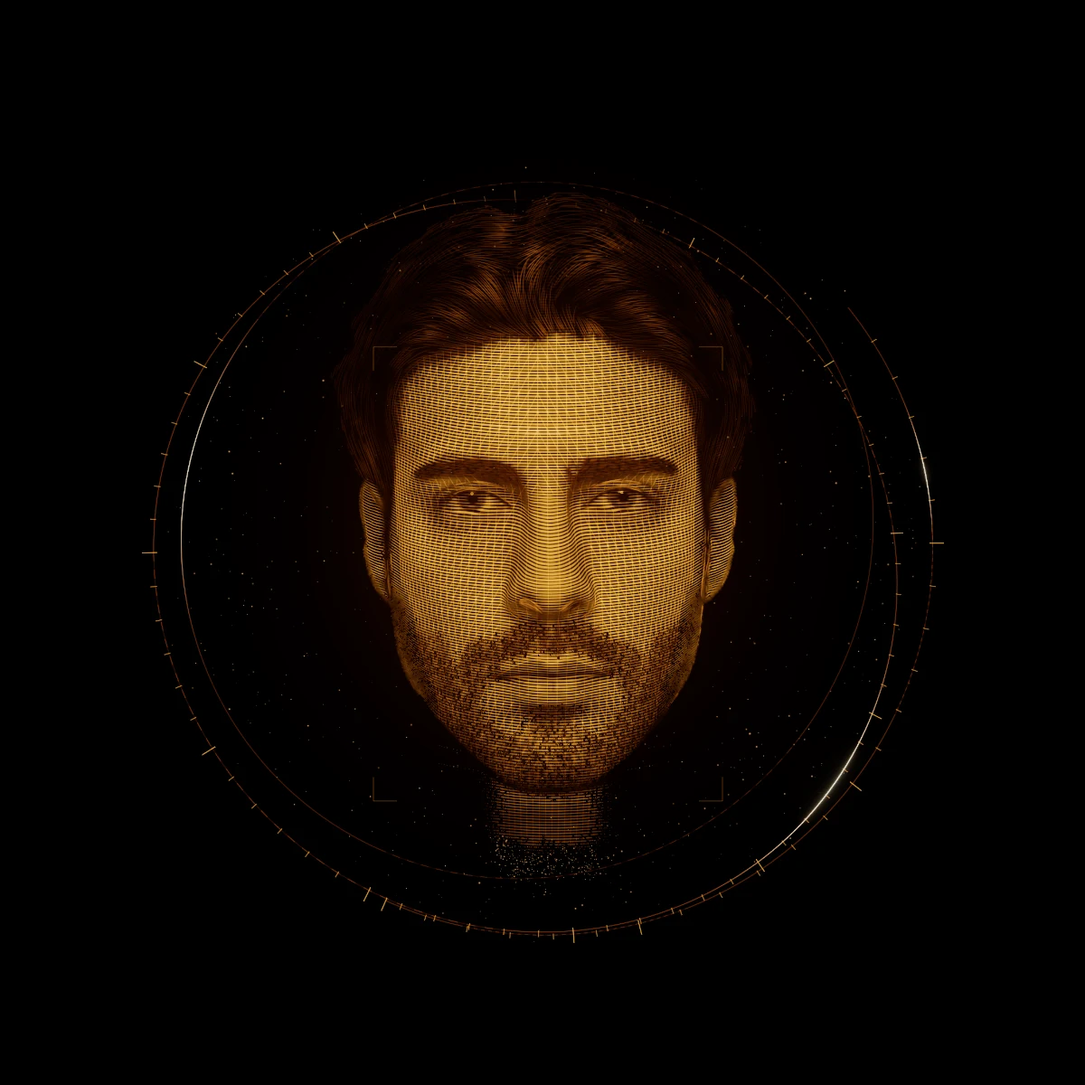
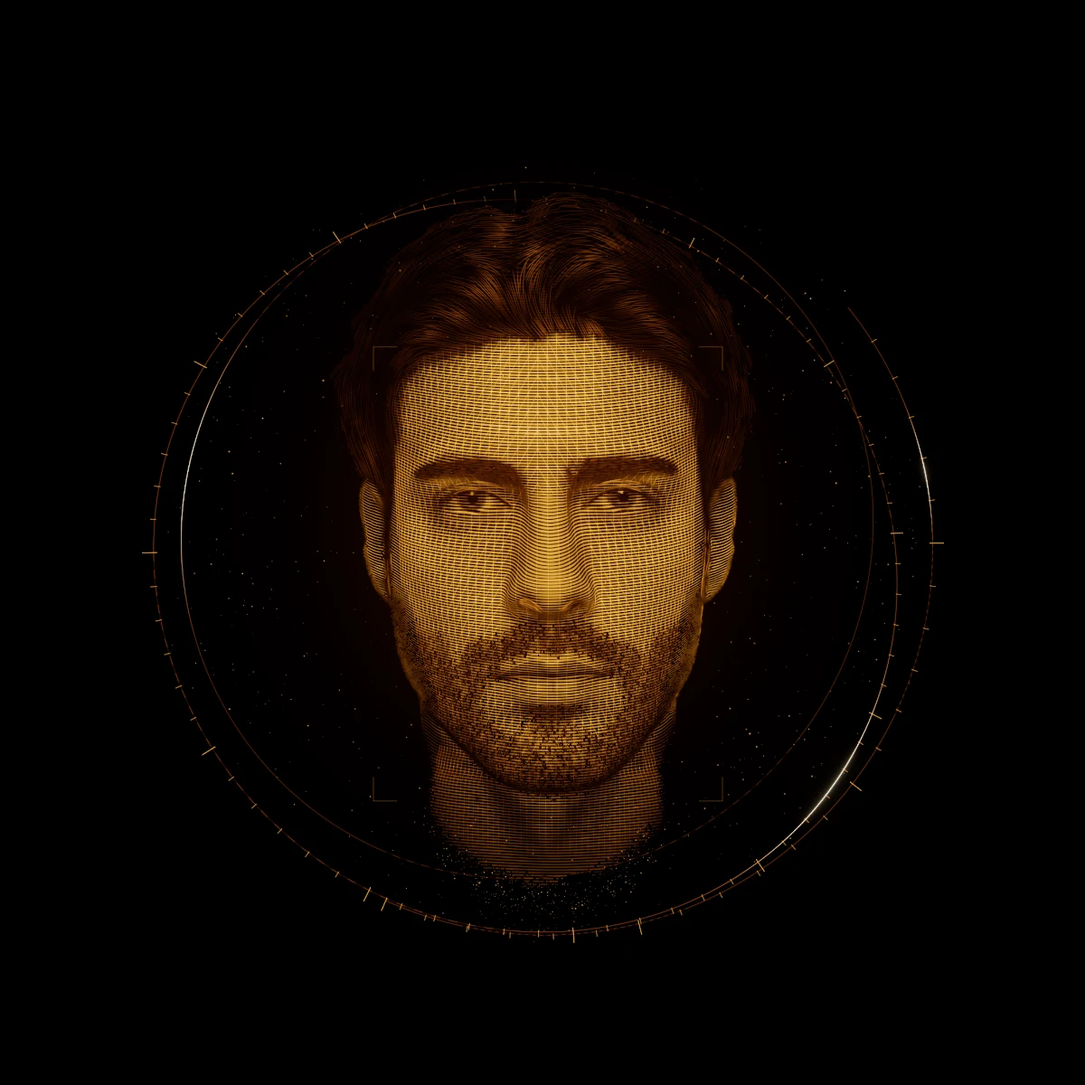
Hologram neck: photo-proportional width, rounded, collar-U fade
The owner found the neck too thin ("like a string"): the visible neck was
about 0.31 of the face width, while the photo's is about 0.70-0.76. The
neck outline is now read from the photo's own skin mask under the jaw.
Below the chin the sides are carried straight down with a slight widening
toward the base, so the neck is about 0.71 of the face width under the
chin. It is shaded as a cylinder with depth normals, and the photo's local
contrast brings out the neck muscles and throat. It dissolves along a
rounded U at the collar line.

?holo.neck=0 switches the neck off (the jaw ends in a fine ember fringe).
The old neck is kept as a fixed random-stream reference, so stubble and
glints do not move. The face above the jaw is unchanged. Posters were
regenerated.

Claude-Session: https://claude.ai/code/session_01YPth3hHsysZd6N1StRjhvQ

Changed region(s): [[0.4008, 0.6475, 0.6475, 0.8325], [0.37, 0.6475, 0.4008, 0.6783]]

diff --git a/src/components/hologram/builder.ts b/src/components/hologram/builder.ts
@@ -323,60 +323,208 @@ export function buildFaceGeometry(input: BuildInput): BuildOutput {
   const seamY = (x: number) => 0.5 * (polyY(SEAM_UP, x) + polyY(SEAM_LO, x));
   const mouthL = LMk[61][0], mouthR = LMk[291][0];
   const JAW = [172, 136, 150, 149, 176, 148, 152, 377, 400, 378, 379, 365, 397];
-  // The neck: a short, slim column under the jaw that dissolves before any shoulders. Its shape is a small set of
-  // knobs: hw (half width at mid-neck), soft (width of the side ramp of the dissolve), flare/flareL (extra half width
-  // right under the jaw line, easing out over flareL px: the column curves out into the jaw instead of meeting it at a
-  // right angle), u (how much earlier the sides end than the centre: a U-shaped bottom instead of a flat cut), spread
-  // (extra half width gained on the way down to the dissolve: a real neck widens a little toward the shoulders, so the
-  // column must not narrow into a funnel / goatee point as it fades).
-  type NeckShape = { cx: number; hw: number; y0: number; side: number; sig: number; hold: number; soft: number; flare: number; flareL: number; u: number; spread: number };
-  const mkNeck = (s: NeckShape) => {
-    const start = (x: number) => Math.min(s.y0, polyY(JAW, x) + s.side);
-    const hwAt = (x: number, y: number) => {
-      let hw = s.hw;
-      if (s.flare > 0) hw += s.flare * (1 - smooth(0, s.flareL, y - polyY(JAW, x)));
-      if (s.spread > 0) hw += s.spread * smooth(0, s.hold + s.sig, y - start(x));
-      return hw;
+  // A neck as a set of fields: w (side weight), v (dissolve toward the bottom, 1 above the line y1), k = w * v (the
+  // dissolve key the filaments carry; 1 above the jaw line, so nothing above the jaw depends on the neck)
+  type NeckFns = { cx: number; y1: (x: number) => number; w: (x: number, y: number) => number; v: (y: number, x: number) => number; k: (x: number, y: number) => number };
+  // The neck as first shipped (a slab, a fixed column under the jaw). It is drawn nowhere: it only fixes how many
+  // random numbers the beard stubble and the neck dust consume, so the shared rng stream (and with it every stubble
+  // tick, network node and glint on the face) stays where it is whatever the visible neck looks like. Never tune it,
+  // and keep it out of dbg(): changing it moves detail above the jaw.
+  const neckRef: NeckFns = (() => {
+    const cx = 318, hw = 124, y0 = chinY + 4, side = 26, sig = 42, hold = 58, soft = 50;
+    const y1 = (x: number) => Math.min(y0, polyY(JAW, x) + side) + hold;
+    const w = (x: number, y: number) => (y <= polyY(JAW, x) + 1 ? 1 : 1 - smooth(hw - soft, hw + 6, Math.abs(x - cx)));
+    const v = (y: number, x: number) => { const yy = y1(x); return y < yy ? 1 : Math.exp(-Math.pow((y - yy) / sig, 2)); };
+    return { cx, y1, w, v, k: (x: number, y: number) => w(x, y) * v(y, x) };
+  })();
+  // The visible neck (the default; ?holo.neck=0 drops it) is the photo's own neck: its outline is the skin mask's
+  // under the jaw (scaled by neckws, so it reads ~0.7 of the face width once shaded, as in the photo), it is shaded as
+  // a rounded column (neckBright below) and it ends in the T-shirt collar's U, breaking into dashes and dust there.
+  // No clothing or shoulders.
+  //   neck tables, per row: the mask's 0.5 crossings walking out from the neck axis = left / right edge, read down to
+  //   just under the chin, kept from opening out again below the jaw corners and smoothed down the rows;
+  //   below that the photo's mask is the segmentation's fade, not the neck, so the sides carry on straight down,
+  //   widening a touch (NK_SPREAD px per px) as a real neck does toward its base, instead of closing into a point.
+  //   The bottom is the collar line: a U (flat across the throat, rising toward the sides so the corners round off)
+  //   whose centre is a little below where the mask fades under the throat.
+  const NK_Y0 = Math.max(0, Math.floor(Math.min(LMk[172][1], LMk[397][1]) - 12));
+  const NK_N = H - NK_Y0;
+  const nkL = new Float32Array(NK_N), nkR = new Float32Array(NK_N);
+  const NK_CX = 0.5 * (LMk[172][0] + LMk[397][0]);
+  const NK_SPREAD = dbg('neckspread', 0.12);
+  let nkYC = chinY + 80;
+  {
+    const ms = boxBlur(mask, dbg('neckmblur', 3));
+    const c = Math.round(NK_CX);
+    const kW = Math.min(NK_N - 1, Math.max(0, Math.round(chinY + dbg('neckwrow', 6)) - NK_Y0));
+    let l = c - 100, r = c + 100;
+    for (let k = 0; k <= kW; k++) {
+      const o = (NK_Y0 + k) * W;
+      if (ms[o + c] >= 0.5) {
+        let a = c, b = c;
+        while (a > 0 && ms[o + a - 1] >= 0.5) a--;
+        while (b < W - 1 && ms[o + b + 1] >= 0.5) b++;
+        // sub-pixel crossing
+        l = a - (a > 0 ? (ms[o + a] - 0.5) / Math.max(1e-4, ms[o + a] - ms[o + a - 1]) : 0);
+        r = b + (b < W - 1 ? (ms[o + b] - 0.5) / Math.max(1e-4, ms[o + b] - ms[o + b + 1]) : 0);
+      }
+      nkL[k] = l; nkR[k] = r;
+    }
+    // below the jaw corners the sides only ever close in or run straight on the way down (never a waist that opens
+    // out again where the T-shirt collar notches the mask: that read as a pedestal / lampshade); from the chin down
+    // they widen by NK_SPREAD alone
+    if (dbg('neckmono', 1) > 0.5) {
+      const k0 = Math.max(0, Math.min(kW, Math.round(Math.max(LMk[172][1], LMk[397][1]) + 8) - NK_Y0));
+      for (let k = k0 + 1; k <= kW; k++) { nkL[k] = Math.max(nkL[k], nkL[k - 1]); nkR[k] = Math.min(nkR[k], nkR[k - 1]); }
+      l = nkL[kW]; r = nkR[kW];
+    }
+    for (let k = kW + 1; k < NK_N; k++) { nkL[k] = l; nkR[k] = r; }
+    const er = Math.max(0, Math.round(dbg('neckedgesm', 28)));
+    const sm = (src: Float32Array) => {
+      const out = new Float32Array(NK_N);
+      for (let i = 0; i < NK_N; i++) {
+        let s = 0, q = 0;
+        for (let j = Math.max(0, i - er); j <= Math.min(NK_N - 1, i + er); j++) { s += src[j]; q++; }
+        out[i] = s / q;
+      }
+      return out;
     };
-    // the line where the dissolve starts (U-shaped when u > 0)
-    const y1 = (x: number) => start(x) + s.hold - s.u * Math.min(1, ((x - s.cx) / s.hw) ** 2);
+    nkL.set(sm(nkL)); nkR.set(sm(nkR));
+    // width scale about the axis (1 = the mask's 0.5 line; the cylinder shading darkens the rim, so the visible neck
+    // is narrower than its outline) and the spread below the chin
+    const WS = dbg('neckws', 1.15);
+    for (let k = 0; k < NK_N; k++) {
+      const m = 0.5 * (nkL[k] + nkR[k]), h = 0.5 * (nkR[k] - nkL[k]) * WS + NK_SPREAD * Math.max(0, k - kW);
+      nkL[k] = m - h; nkR[k] = m + h;
+    }
+    // the collar's centre: where the mask under the throat falls through 0.5, lowered by NK_LOW, kept clear of the
+    // end of the mask (no scan filaments are traced where it is ~0)
+    let y5 = Math.round(chinY), y0 = Math.round(chinY);
+    while (y5 < H - 1 && ms[y5 * W + c] >= 0.5) y5++;
+    while (y0 < H - 1 && ms[y0 * W + c] >= 0.1) y0++;
+    nkYC = Math.min(y5 + dbg('necklow', 34), y0 - 8);
+  }
+  const nkRow = (y: number) => Math.min(NK_N - 1, Math.max(0, Math.round(y) - NK_Y0));
+  const NK_SOFT = dbg('necksoft', 26), NK_HOLD = dbg('neckhold', 6), NK_SIG = dbg('necksig', 30);
+  // (the U's rise NK_U and its power NK_UP: deep enough that the bottom corners visibly round off and fray even at the
+  // phone's coarse low-tier scan pitch, instead of a square block with a flat bottom edge; the centre sits a little
+  // lower (necklow) so the neck keeps its full width down past the throat, as the photo's collar U does)
+  const NK_U = dbg('necku', 120), NK_UP = dbg('neckupow', 2), NK_SIGS = dbg('necksigside', 1);
+  const NECK: NeckFns = (() => {
+    const kb = nkRow(nkYC);
+    const cm = 0.5 * (nkL[kb] + nkR[kb]), ch2 = Math.max(40, 0.5 * (nkR[kb] - nkL[kb]));
+    // the dissolve line: the collar's wide U
+    const y1 = (x: number) => nkYC - NK_HOLD - NK_U * Math.pow(Math.min(1, Math.abs(x - cm) / ch2), NK_UP);
     const w = (x: number, y: number) => {
       if (y <= polyY(JAW, x) + 1) return 1;
-      const hw = hwAt(x, y);
-      return 1 - smooth(hw - s.soft, hw + 6, Math.abs(x - s.cx));
+      const k = nkRow(y);
+      const m = 0.5 * (nkL[k] + nkR[k]), h = 0.5 * (nkR[k] - nkL[k]);
+      return 1 - smooth(h - NK_SOFT, h + 3, Math.abs(x - m));
     };
-    const v = (y: number, x: number) => { const y0 = y1(x); return y < y0 ? 1 : Math.exp(-Math.pow((y - y0) / s.sig, 2)); };
-    return { cx: s.cx, start, hwAt, y1, w, v, k: (x: number, y: number) => w(x, y) * v(y, x) };
+    // (the dissolve is longer toward the sides, so the U's outer corners fray out instead of ending square)
+    const v = (y: number, x: number) => {
+      const yy = y1(x);
+      if (y < yy) return 1;
+      const a = Math.min(1, Math.abs(x - cm) / ch2);
+      return Math.exp(-Math.pow((y - yy) / (NK_SIG * (1 + NK_SIGS * a * a)), 2));
+    };
+    return { cx: cm, y1, w, v, k: (x: number, y: number) => w(x, y) * v(y, x) };
+  })();
+  // inside the neck the filaments ignore the mask's own fade (the segmentation's, not the neck's end): the neck's
+  // dissolve is NECK.k alone. Unchanged above the jaw line.
+  const neckMask = (x: number, y: number, mm: number) => (y <= polyY(JAW, x) + 1 ? mm : mm + (1 - mm) * NECK.w(x, y));
+  // neck brightness: NECK_LVL of the filament brightness on the lit centre line, shaded like a rounded neck (a cylinder
+  // across the photo's own width, NECK_EDGE at the rim), lit by the depth surface's normal (light from the front and a
+  // little above: the underside of the jaw turns away a little) and with the photo tone's local contrast raised by
+  // NECK_DET. The photo's own top-to-bottom lighting (a dark band under the chin, a lit lower neck) is divided out
+  // (NECK_FLAT) and replaced by one profile: a little lift right under the jaw (NECK_LIFT, so the neck joins the beard
+  // instead of hanging under a dark band) and a steady fall toward the collar's U (NECK_FADE), so the neck sinks into
+  // the dust instead of ending on a lit band. On top: the sternocleidomastoid cords (from below the ears in and down
+  // toward the sternal notch, lit on the crest, a soft hollow on the inner side) and a faint larynx highlight.
+  const NECK_LVL = dbg('necklvl', 0.72), NECK_EDGE = dbg('neckedge', 0.22), NECK_CYL = dbg('neckcyl', 2);
+  const NECK_NRM = dbg('necknrm', 0.45), NECK_LY = dbg('neckly', 0.35), NECK_LX = dbg('necklx', 0.1), NECK_DET = dbg('neckdet', 0.9);
+  const NECK_FLAT = dbg('neckflat', 1), NECK_LIFT = dbg('necklift', 0.5), NECK_LIFTL = Math.max(1, dbg('neckliftl', 40));
+  const NECK_FADE = dbg('neckfade', 0.6), NECK_FADE0 = dbg('neckfade0', 0), NECK_FADE1 = dbg('neckfade1', 25), NECK_FADEP = dbg('neckfadep', 1.3);
+  const nkZ = boxBlur(depth, dbg('necknr', 5)), nkT = boxBlur(tone, dbg('neckdetr', 9));
+  const nkLn = Math.hypot(NECK_LX, NECK_LY, 1);
+  // the photo tone across the middle half of the neck, per row (smoothed down the rows), and its mean over the neck
+  const nkTr = new Float32Array(NK_N);
+  let nkTref = 0;
+  {
+    const raw = new Float32Array(NK_N);
+    for (let k = 0; k < NK_N; k++) {
+      const m = 0.5 * (nkL[k] + nkR[k]), h = 0.25 * (nkR[k] - nkL[k]);
+      let s = 0, q = 0;
+      for (let x = Math.round(m - h); x <= Math.round(m + h); x += 2) { s += bil(nkT, x, NK_Y0 + k); q++; }
+      raw[k] = s / Math.max(1, q);
+    }
+    const r = 15;
+    for (let i = 0; i < NK_N; i++) {
+      let s = 0, q = 0;
+      for (let j = Math.max(0, i - r); j <= Math.min(NK_N - 1, i + r); j++) { s += raw[j]; q++; }
+      nkTr[i] = s / q;
+    }
+    const ka = nkRow(chinY), kb = nkRow(nkYC);
+    for (let k = ka; k <= kb; k++) nkTref += nkTr[k];
+    nkTref /= Math.max(1, kb - ka + 1);
+  }
+  const SCM_LIT = dbg('neckscmlit', 0.18), SCM_SH = dbg('neckscmsh', 0.5), SCM_W = dbg('neckscmw', 22), SCM_IN = dbg('neckscmin', 30);
+  const SCM_X0 = dbg('neckscmx0', 128), SCM_X1 = dbg('neckscmx1', 26), SCM_Y0 = chinY - 60, SCM_Y1 = chinY + dbg('neckscmy1', 100);
+  const APPLE = dbg('neckapple', 0.15), APPLE_Y = chinY + dbg('neckappley', 45);
+  const neckRelief = (x: number, y: number) => {
+    const t = Math.min(1, Math.max(0, (y - SCM_Y0) / (SCM_Y1 - SCM_Y0)));
+    const d = Math.abs(x - NECK.cx) - (SCM_X0 + (SCM_X1 - SCM_X0) * t); // > 0 outside the cord's crest
+    const along = smooth(SCM_Y0, SCM_Y0 + 40, y) * (1 - smooth(SCM_Y1 - 40, SCM_Y1, y));
+    const cord = SCM_LIT * Math.exp(-Math.pow(d / SCM_W, 2)) - SCM_SH * Math.exp(-Math.pow((d + SCM_IN) / (0.8 * SCM_W), 2));
+    const apple = APPLE * Math.exp(-Math.pow((x - NECK.cx) / 14, 2) - Math.pow((y - APPLE_Y) / 18, 2));
+    return along * cord + apple;
   };
-  // The neck as first shipped (a slab nearly as wide as the jaw). It is drawn nowhere: it only fixes how many random
-  // numbers the beard stubble and the neck dust consume, so the shared rng stream (and with it every stubble tick,
-  // network node and glint on the face) stays where it is whatever the visible neck looks like. Never tune it, and
-  // keep it out of dbg(): changing it moves detail above the jaw.
-  const NECK_REF: NeckShape = { cx: 318, hw: 124, y0: chinY + 4, side: 26, sig: 42, hold: 58, soft: 50, flare: 0, flareL: 1, u: 0, spread: 0 };
-  const neckRef = mkNeck(NECK_REF);
-  // the visible neck: ~0.4 of the face width (the photo's neck runs into the T-shirt collar and trapezius, so copying
-  // its mask gave a pillar), soft sides, a short fillet into the jaw, near-parallel sides that widen a touch on the way
-  // down (a strong U or flare made it narrow into a funnel / goatee point), a gentle U-shaped dissolve
-  const NECK = mkNeck({
-    cx: dbg('neckcx', NECK_REF.cx), hw: dbg('neckhw', 100), y0: chinY + dbg('collar', 4), side: dbg('neckside', NECK_REF.side),
-    sig: dbg('necksig', 34), hold: dbg('neckhold', 55), soft: dbg('necksoft', 60),
-    flare: dbg('neckflare', 6), flareL: Math.max(1, dbg('neckflarel', 25)), u: dbg('necku', 35),
-    spread: dbg('neckspread', 10),
-  });
-  const NECK_DIM = dbg('neckdim', 0.35), NECK_EDGE = dbg('neckedge', 0.28), NECK_CYL = dbg('neckcyl', 2), NECK_FADE = dbg('neckfade', 0.3);
-  // neck brightness: below the jaw the neck is ~65 % of the face's filament brightness on its centre line
   const neckBright = (x: number, y: number) => {
-    const s0 = NECK.start(x);
-    const below = smooth(s0 - 6, s0 + 34, y);
-    // shaded like a cylinder: a bright centre ridge falling off toward the sides (NECK_EDGE at the rim), so the
-    // column reads round instead of an evenly lit slab with two cut edges
-    const u = Math.min(1, Math.abs(x - NECK.cx) / (NECK.hwAt(x, y) + 4));
+    const yj = polyY(JAW, x);
+    if (y <= yj + 1) return 1;
+    const below = smooth(yj + 1, yj + 24, y);
+    const k = nkRow(y);
+    const m = 0.5 * (nkL[k] + nkR[k]), h = 0.5 * (nkR[k] - nkL[k]);
+    const u = Math.min(1, Math.abs(x - m) / (h + 4));
     const cyl = NECK_EDGE + (1 - NECK_EDGE) * Math.pow(1 - u * u, 0.5 * NECK_CYL);
-    // and it fades on the way down, so it recedes into the dissolve instead of ending as a lit slab
-    const fade = NECK_FADE > 0 ? NECK_FADE * smooth(s0, NECK.y1(x) + 20, y) : 0;
-    return 1 - below * (1 - (1 - NECK_DIM) * cyl * (1 - fade));
+    const zx = 0.5 * (bil(nkZ, x + 2, y) - bil(nkZ, x - 2, y)), zy = 0.5 * (bil(nkZ, x, y + 2) - bil(nkZ, x, y - 2));
+    // n ~ (-zx, -zy, 1) in image axes (y down); the light comes from (LX, -LY, 1)
+    const lam = Math.max(0, (-zx * NECK_LX + zy * NECK_LY + 1) / (Math.hypot(zx, zy, 1) * nkLn));
+    const nrm = 1 - NECK_NRM * (1 - lam);
+    const t = bil(tone, x, y), tb = bil(nkT, x, y);
+    const det = Math.min(1.6, Math.max(0.5, Math.pow((t + 0.03) / (tb + 0.03), NECK_DET)));
+    const flat = Math.min(1.8, Math.max(0.55, Math.pow((nkTref + 0.03) / (nkTr[k] + 0.03), NECK_FLAT)));
+    // (the lift is the throat's, under the chin: under the jaw corners the neck stays in the jaw's shadow, or the
+    // sides read as two lit posts)
+    const lift = 1 + NECK_LIFT * (1 - smooth(yj, yj + NECK_LIFTL, y)) * (1 - u * u);
+    const fade = NECK_FADE * Math.pow(smooth(chinY + NECK_FADE0, NECK.y1(x) + NECK_FADE1, y), NECK_FADEP);
+    const rel = 1 + neckRelief(x, y);
+    return 1 - below * (1 - NECK_LVL * cyl * nrm * det * flat * lift * (1 - fade) * rel);
   };
-  const neckK = NECK.k;
+  // No neck (?holo.neck=0): the head ends at the jaw / beard line. Below the jaw everything dissolves into dashes and
+  // gold dots over a short band, keyed on how far a point lies below the jaw line AND how far it sits behind the jaw's
+  // own depth: the neck surface just under the chin is far behind it, so it goes first, while the underside of the jaw
+  // (seen in turned views) frays out gradually instead of ending in a hard cut. The depth term eases in over CUT_ZR px
+  // under the jaw line, so the filament segments that cross the line keep their upper end. Above the line nothing
+  // changes.
+  const NECK_ON = dbg('neck', 1) > 0.5;
+  const CUT_HOLD = dbg('cuthold', 2), CUT_SIG = dbg('cutsig', 28), CUT_Z = dbg('cutz', 0.25), CUT_ZR = Math.max(1, dbg('cutzr', 8));
+  const CUT_GLOW = dbg('cutglow', 0.35);
+  const jawZ = new Float32Array(W);
+  for (let x = 0; x < W; x++) jawZ[x] = bil(depth, x, polyY(JAW, x) - 3);
+  const jawZAt = (x: number) => jawZ[Math.min(W - 1, Math.max(0, Math.round(x)))];
+  const cutK = (x: number, y: number, z: number) => {
+    const yj = polyY(JAW, x);
+    if (y <= yj + 1) return 1;
+    const s = Math.max(0, y - yj - CUT_HOLD) + CUT_Z * Math.max(0, jawZAt(x) - z) * smooth(yj, yj + CUT_ZR, y);
+    return Math.exp(-Math.pow(s / CUT_SIG, 2));
+  };
+  // brightness under the jaw: the face's own, with a faint glow on the fraying band (gold embers)
+  const cutBright = (x: number, y: number, z: number) => {
+    if (y <= polyY(JAW, x)) return 1;
+    const k = cutK(x, y, z);
+    return 1 + CUT_GLOW * 4 * k * (1 - k);
+  };
   const EAR_XL = LMk[234][0] - 4, EAR_XR = LMk[454][0] + 4, EAR_Y0 = LMk[468][1] - 70, EAR_Y1 = LMk[172][1] - 20;
   // (finishing pass) the zone between the ear and the cheek (pre-auricular skin, sideburn) is flagged with the ear, so
   // in turned views the filaments bridge from the cheek into the ear instead of leaving a black gap
@@ -504,11 +652,14 @@ export function buildFaceGeometry(input: BuildInput): BuildOutput {
     if (!lineStart) arc += Math.hypot(x - lastX, y - lastY, z - lastZ);
     let nk = 1, mm = m;
     if (y > neckY0 - 140) {
-      nk = neckK(x, y);
-      // the mask's own neck fade starts ~25 px below the chin: remap it so the filaments stay whole for a short
-      // neck and only then dissolve (the fragment dash dissolve keys on this value)
-      if (y > chinY - 20 && !(kind >= K_HAIR && kind < K_BROW)) mm = Math.min(1, m / 0.62);
-      if (kind < K_HAIR) I *= neckBright(x, y);
+      nk = NECK_ON ? NECK.k(x, y) : cutK(x, y, z);
+      // the mask's own neck fade starts ~25 px below the chin: remap it so the filaments stay whole down to the
+      // jaw line (the fragment dash dissolve keys on this value); inside the neck the mask's fade is ignored
+      if (!(kind >= K_HAIR && kind < K_BROW)) {
+        if (y > chinY - 20) mm = Math.min(1, m / 0.62);
+        if (NECK_ON) mm = neckMask(x, y, mm);
+      }
+      if (kind < K_HAIR) I *= NECK_ON ? neckBright(x, y) : cutBright(x, y, z);
     }
     Pp[nP * 3] = x; Pp[nP * 3 + 1] = y; Pp[nP * 3 + 2] = z;
     A[nP * 4] = I; A[nP * 4 + 1] = half; A[nP * 4 + 2] = arc; A[nP * 4 + 3] = lineSeed;
@@ -1302,11 +1453,15 @@ export function buildFaceGeometry(input: BuildInput): BuildOutput {
       phor.set([-2, -2, -2, -2], k * 4);
     }
     // neck dust along the visible neck's dissolve line: dimmer than the filaments, and only a share of it shown (the
-    // rest is parked as kind 9, never drawn), so the slim column does not end in a dense glitter cluster. The stream is
+    // rest is parked as kind 9, never drawn), so the neck does not end in a dense glitter cluster. The stream is
     // then rewound and advanced exactly as the reference neck's loop draws it (emit = false), so the network nodes and
     // glints after it stay put whatever the visible neck looks like.
     const DUST_W = dbg('neckdustw', 2), DUST_KEEP = dbg('neckdustkeep', 0.65), DUST_I = dbg('neckdusti', 0.7);
-    const neckDust = (shape: ReturnType<typeof mkNeck>, emit: boolean, wPow: number) => {
+    type DustShape = Pick<NeckFns, 'y1' | 'w' | 'v'>;
+    // the band the dust is drawn from: centre offset below shape.y1 and its half width (crop px), and its depth
+    let bandC = 30, bandW = 30;
+    let dustZ = (x: number, y: number) => bil(depth, x, y) + 2;
+    const neckDust = (shape: DustShape, emit: boolean, wPow: number) => {
       let made = 0, tries = 0;
       while (made < nNeck && tries < nNeck * 200) {
         tries++;
@@ -1314,11 +1469,13 @@ export function buildFaceGeometry(input: BuildInput): BuildOutput {
         const y1 = shape.y1(x);
         const y = y1 - 10 + rng() * 90;
         const m = bil(mask, x, y);
-        const wgt = Math.pow(shape.w(x, y), wPow) * Math.min(1, m * 2.5) * Math.pow(1 - shape.v(y, x), 0.6) * Math.exp(-Math.pow((y - y1 - 30) / 30, 2));
+        // (the visible neck's dust stays under the jaw line, where its fields are 1, and, like its filaments, ignores
+        // the mask's own fade)
+        const wgt = emit && y <= polyY(JAW, x) + 4 ? 0 : Math.pow(shape.w(x, y), wPow) * (emit ? 1 : Math.min(1, m * 2.5)) * Math.pow(1 - shape.v(y, x), 0.6) * Math.exp(-Math.pow((y - y1 - bandC) / bandW, 2));
         if (rng() > wgt) continue;
         made++;
         if (!emit) { rng(); rng(); continue; }
-        const z = bil(depth, x, y) + 2;
+        const z = dustZ(x, y);
         toWorld(x, y, z, w);
         ppos.set(w, k * 3);
         pinfo.set([rng() < DUST_KEEP ? 1 : 9, rng(), rng(), DUST_I * (0.4 + 0.6 * bil(tone, x, y))], k * 4);
@@ -1327,11 +1484,30 @@ export function buildFaceGeometry(input: BuildInput): BuildOutput {
       }
     };
     const rs0 = rs;
-    neckDust(NECK, true, DUST_W); // > 1 keeps the dust inside the column (not a wider skirt)
+    if (NECK_ON) neckDust(NECK, true, DUST_W); // > 1 keeps the dust inside the neck's outline (not a wider skirt)
+    else {
+      // no neck: embers shed from the jaw's underside, along the jaw line between the jaw corners, at the jaw's own
+      // depth (not the neck surface far behind it), so they hang under the chin in turned views too. Most of it sits
+      // under the chin, where the jaw is lowest (on the steep jaw sides it read as dandruff), but its very centre is
+      // thinned (CUT_DUST_MID) so it does not read as crumbs falling out of the beard.
+      const jx0 = LMk[172][0], jx1 = LMk[397][0], jcx = LMk[152][0], jhw = 0.5 * (jx1 - jx0) * dbg('cutdustx', 0.8);
+      const jfl = dbg('cutdustside', 0.3), jmid = dbg('cutdustmid', 0.5), jmidw = dbg('cutdustmidw', 30), jzb = dbg('cutdustz', 12);
+      const cutDust: DustShape = {
+        y1: (x) => polyY(JAW, x) + CUT_HOLD,
+        w: (x) => smooth(jx0 - 4, jx0 + 22, x) * smooth(jx1 + 4, jx1 - 22, x) * (jfl + (1 - jfl) * Math.exp(-Math.pow((x - jcx) / jhw, 2))) * (1 - jmid * Math.exp(-Math.pow((x - jcx) / jmidw, 2))),
+        v: (y, x) => { const d = y - polyY(JAW, x) - CUT_HOLD; return d < 0 ? 1 : Math.exp(-Math.pow(d / CUT_SIG, 2)); },
+      };
+      bandC = dbg('cutdustc', 5); bandW = dbg('cutdustw', 18);
+      dustZ = (x, y) => Math.max(bil(depth, x, y), jawZAt(x) - jzb) + 2;
+      neckDust(cutDust, true, 1);
+      bandC = 30; bandW = 30;
+      dustZ = (x, y) => bil(depth, x, y) + 2;
+    }
     rs = rs0;
     neckDust(neckRef, false, 1);
-    // the neck's axis in world x: the shader draws the falling dust in toward it
-    neckX = toWorld(NECK.cx, NECK.y1(NECK.cx), bil(depth, NECK.cx, NECK.y1(NECK.cx)) + 2, w)[0];
+    // the neck's axis in world x: the shader draws the falling dust in toward it (no neck: the chin)
+    const axX = NECK_ON ? NECK.cx : LMk[152][0], axY = NECK_ON ? NECK.y1(NECK.cx) : chinY;
+    neckX = toWorld(axX, axY, bil(depth, axX, axY) + 2, w)[0];
     // network nodes at REAL crossings of slices, meridians and diagonals on the open planes (never on the eyes):
     // a steady faint node, ~4 % hubs a little brighter, and rare short flashes
     const nn = nodes.length >> 2;

diff --git a/src/components/hologram/hologramObjects.ts b/src/components/hologram/hologramObjects.ts
@@ -348,7 +348,8 @@ export function createHologramObjects(out: BuildOutput, world: FaceWorld, meta: 
     uniforms: {
       ...colors, ...common, uMerLod: filMat.uniforms.uMerLod, uNode: { value: dbg('gnode', 1.0) },
       // neck dust: (axis world x, how far it is drawn in toward the axis by the end of its fall, fall length scale)
-      uNeck: { value: new THREE.Vector3(info.neckX, dbg('neckin', 0.12), dbg('neckfall', 0.5)) },
+      // (no neck, ?holo.neck=0: the embers under the jaw drift almost straight down, a little further)
+      uNeck: { value: dbg('neck', 1) > 0.5 ? new THREE.Vector3(info.neckX, dbg('neckin', 0.12), dbg('neckfall', 0.5)) : new THREE.Vector3(info.neckX, dbg('neckin', 0.03), dbg('neckfall', 1.2)) },
     },
     vertexShader: /* glsl */ `
       attribute vec4 aInfo;

diff --git a/README.md b/README.md
@@ -43,6 +43,7 @@ Useful query parameters while reviewing (they work on `/` and `/sphere`):
 | `?t=8` | start the animation clocks at 8 s (handy for screenshots) |
 | `?capture=1` | hide the panel and caption (used to capture the poster) |
 | `?capture&freeze&t=4` | also stop every clock at `t` and hold the head front-on, still (poster capture) |
+| `?holo.neck=0` | no neck: the head ends at the jaw / beard line in a short fringe of embers (default `1`: the neck) |
 | `?holo.<name>=<value>` | debug overrides of the hologram builder / shaders (e.g. `?holo.gain=1.2`, `?holo.worker=0` builds on the main thread, `?holo.hide=particles`) |
 
 ## How the site is built
@@ -95,9 +96,12 @@ worker. **copy settings JSON** puts the current values on the clipboard.
   depth surface whose width and brightness follow the tone like a line engraving, radial meridians
   and diagonals that turn the cheeks and forehead into a wireframe mesh, evenly spaced strands for
   hair and brows, stubble ticks for the beard, landmark lines for lids, iris and lips, edge ridges,
-  a faint back-of-head shell for turned views, a short slim neck (about 0.4 of the face width,
-  shaded like a cylinder, with near-parallel sides that widen a touch before it breaks into dashes
-  along a gentle U-shaped line under the beard: never a funnel or point), dust /
+  a faint back-of-head shell for turned views, a short neck in the photo's proportions (its outline
+  is the skin mask's under the jaw, about 0.7 of the face width as in the photo, with straight sides
+  that only widen a touch below the chin; shaded as a rounded column from the depth surface, with
+  faint sternocleidomastoid cords and a larynx highlight; it is brightest just under the jaw, fades
+  on the way down and breaks into dashes and dust along the T-shirt collar's U, with no clothing or
+  shoulders; `?holo.neck=0` drops it and ends the head at the jaw in a short fringe of embers), dust /
   neck-dissolve / node particles. Every point
   is packed into a 32-byte record (vertex pulling from an RGBA32UI texture), with precomputed
   horizon angles so the relief occludes itself without a depth buffer.

diff --git a/docs/BLUEPRINT.md b/docs/BLUEPRINT.md
@@ -4,7 +4,9 @@ Component structure and design tokens for the portfolio. Phase 3 builds exactly 
 The hologram is the source of every visual decision below: the UI must look like it was
 emitted by it. (Phase 1 approved a golden sphere; it has since been replaced by a holographic
 portrait of the owner, his face measured from a photograph and drawn in golden filaments, in the
-same palette, slot and unit circle. "Sphere" in the component names below means that slot.)
+same palette, slot and unit circle: the head and a short neck in the photo's proportions that
+dissolves into gold dust above the collar, with no clothing or shoulders; `?holo.neck=0` ends the
+head at the jaw instead. "Sphere" in the component names below means that slot.)
 
 ## 1. Direction in one paragraph
 
